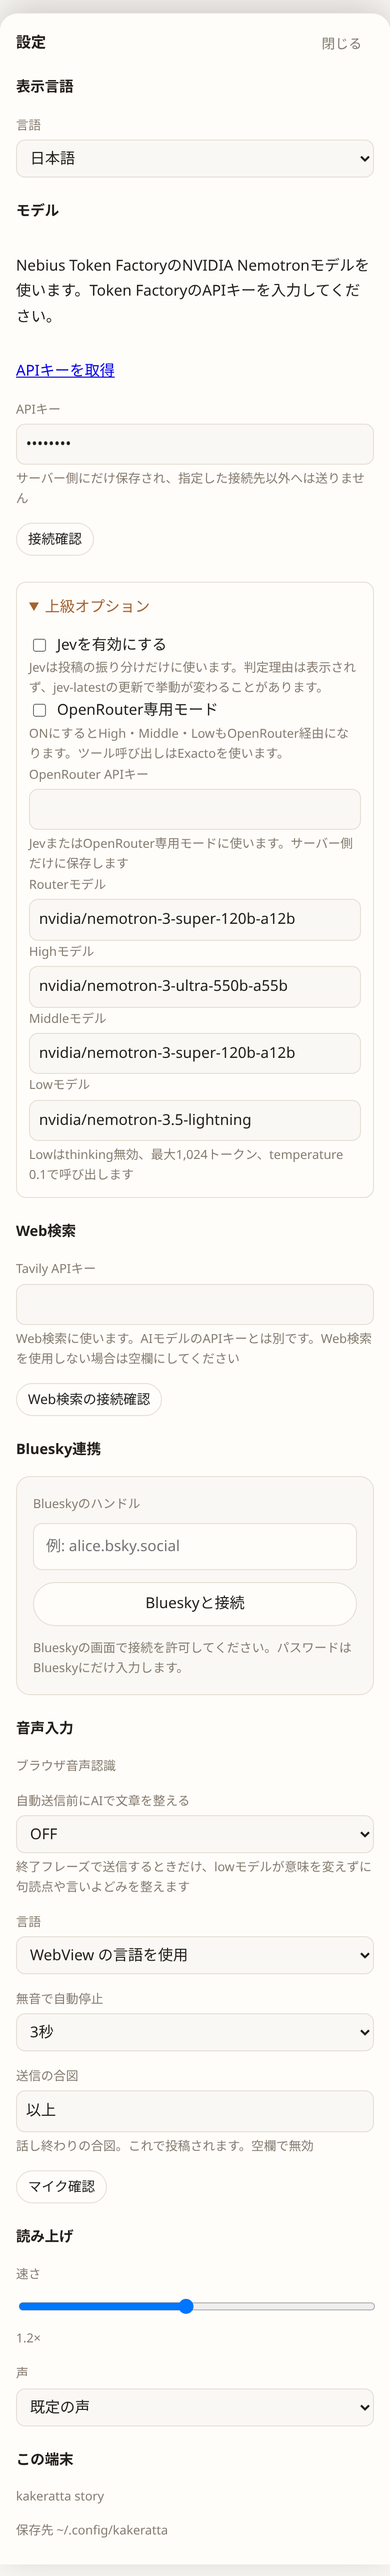
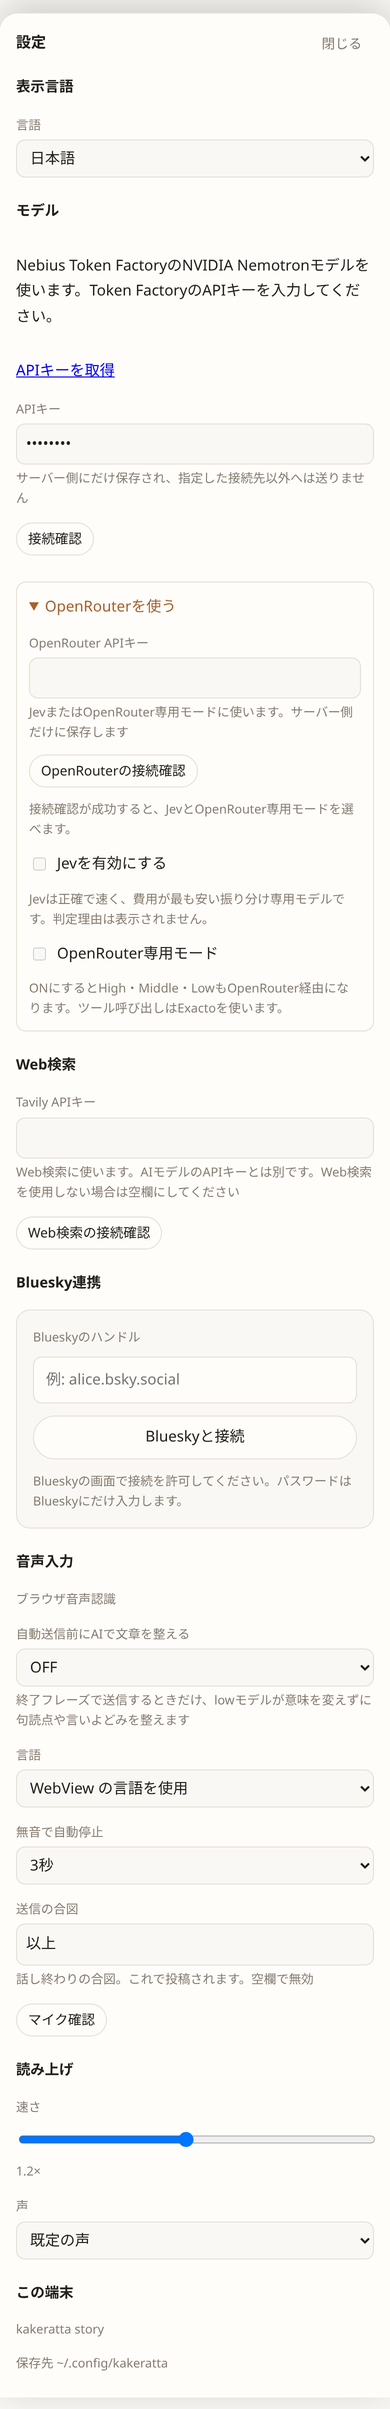
feat: add OpenRouter model pickers

diff --git a/frontend/src/settings.js b/frontend/src/settings.js
@@ -18,7 +18,8 @@ export function createSettings({ speaker, onSettings }) {
   const view = el("div", { class: "panel-body" });
   let settings = null;
   let about = null;
- let bluesky = null;
+  let bluesky = null;
+  let openRouterModels = [];
   let stopMicCheck = () => {};
 
   async function load() {
@@ -58,22 +59,23 @@ export function createSettings({ speaker, onSettings }) {
 
   // Models are not chosen here; the tiers keep their defaults (see the manual).
   // Listing the endpoint's models is still the check that the key works.
-  function connectionCheck(saveKey) {
+  function connectionCheck(saveKey, { fetchModels = () => api.models(), label = "接続確認", onModels } = {}) {
     const check = el("button", {
       class: "chip",
-      label: "接続確認",
+      label,
       onclick: async () => {
         check.disabled = true;
         check.textContent = t("接続中…");
         try {
           if (!(await saveKey())) return;
-          await api.models();
+          const result = await fetchModels();
+          onModels?.(result.models ?? []);
           toast(t("接続できました"));
         } catch (error) {
           toast(String(error.message || error), "error");
         } finally {
           check.disabled = false;
-          check.textContent = t("接続確認");
+          check.textContent = t(label);
         }
       },
     });
@@ -104,35 +106,53 @@ export function createSettings({ speaker, onSettings }) {
 	    type: "password",
 	    hint: "JevまたはOpenRouter専用モードに使います。サーバー側だけに保存します",
 	  });
-	const jevKeyInput = jevKey.querySelector("input");
 	const jevEnabled = el("input", { type: "checkbox", checked: !!settings.jevEnabled });
 	const openRouterMode = el("input", { type: "checkbox", checked: !!settings.openRouterMode });
-	const refreshKeyState = () => { jevKeyInput.disabled = !jevEnabled.checked && !openRouterMode.checked; };
-	refreshKeyState();
+	jevEnabled.disabled = true;
+	openRouterMode.disabled = true;
 	jevEnabled.addEventListener("change", () => {
-	  refreshKeyState();
 	  void patch({ jevEnabled: jevEnabled.checked });
 	});
 	openRouterMode.addEventListener("change", () => {
-	  refreshKeyState();
 	  void patch({ openRouterMode: openRouterMode.checked });
 	});
-	const openRouterModels = el("div", { class: "openrouter-models" },
-	  field("Routerモデル", settings.openRouterRouterModel, (value) => patch({ openRouterRouterModel: value })),
-	  field("Highモデル", settings.openRouterHighModel, (value) => patch({ openRouterHighModel: value })),
-	  field("Middleモデル", settings.openRouterMiddleModel, (value) => patch({ openRouterMiddleModel: value })),
-	  field("Lowモデル", settings.openRouterLowModel, (value) => patch({ openRouterLowModel: value }), {
-	    hint: "Lowはthinking無効、最大1,024トークン、temperature 0.1で呼び出します",
-	  }),
+	const modelChoices = (current) => [...new Set([current, ...openRouterModels].filter(Boolean))].map((id) => [id, id]);
+	const pickers = [
+	  select("Routerモデル", settings.openRouterRouterModel, modelChoices(settings.openRouterRouterModel), (value) => patch({ openRouterRouterModel: value })),
+	  select("Highモデル", settings.openRouterHighModel, modelChoices(settings.openRouterHighModel), (value) => patch({ openRouterHighModel: value })),
+	  select("Middleモデル", settings.openRouterMiddleModel, modelChoices(settings.openRouterMiddleModel), (value) => patch({ openRouterMiddleModel: value })),
+	  select("Lowモデル", settings.openRouterLowModel, modelChoices(settings.openRouterLowModel), (value) => patch({ openRouterLowModel: value })),
+	];
+	const refreshPickers = (models) => {
+	  openRouterModels = models;
+	  for (const picker of pickers) {
+	    const node = picker.querySelector("select");
+	    const current = node.value;
+	    node.replaceChildren(...modelChoices(current).map(([id, text]) => el("option", { value: id, text, selected: id === current })));
+	  }
+	};
+	const pickerGroup = el("div", { class: "openrouter-models" }, ...pickers,
+	  el("p", { class: "hint", label: "Lowはthinking無効、最大1,024トークン、temperature 0.1で呼び出します" }));
+	pickerGroup.hidden = !openRouterMode.checked;
+	openRouterMode.addEventListener("change", () => { pickerGroup.hidden = !openRouterMode.checked; });
+	const openRouterCheck = connectionCheck(
+	  () => patch({ openRouterApiKey: jevKey.querySelector("input").value.trim() }),
+	  { fetchModels: () => api.openRouterModels(), label: "OpenRouterの接続確認", onModels: (models) => {
+	    refreshPickers(models);
+	    jevEnabled.disabled = false;
+	    openRouterMode.disabled = false;
+	  } },
 	);
 	view.append(el("details", { class: "advanced-settings" },
-	  el("summary", { label: "上級オプション" }),
+	  el("summary", { label: "OpenRouterを使う" }),
+	  jevKey,
+	  openRouterCheck,
+	  el("p", { class: "hint", label: "接続確認が成功すると、JevとOpenRouter専用モードを選べます。" }),
 	  el("label", { class: "field check-field" }, jevEnabled, el("span", { label: "Jevを有効にする" })),
-	  el("p", { class: "hint", label: "Jevは投稿の振り分けだけに使います。判定理由は表示されず、jev-latestの更新で挙動が変わることがあります。" }),
+	  el("p", { class: "hint", label: "Jevは正確で速く、費用が最も安い振り分け専用モデルです。判定理由は表示されません。" }),
 	  el("label", { class: "field check-field" }, openRouterMode, el("span", { label: "OpenRouter専用モード" })),
 	  el("p", { class: "hint", label: "ONにするとHigh・Middle・LowもOpenRouter経由になります。ツール呼び出しはExactoを使います。" }),
-	  jevKey,
-	  openRouterModels,
+	  pickerGroup,
 	));
   }
 

diff --git a/frontend/manual/index.html b/frontend/manual/index.html
@@ -329,7 +329,7 @@
         <section id="ja-settings">
           <h2>9. 設定</h2>
           <figure>
-            <img src="/captures/ja/settings.png" alt="設定。表示言語、モデル、Web検索、Bluesky連携、音声入力、読み上げ" loading="lazy" width="390" height="2575" />
+            <img src="/captures/ja/settings.png" alt="設定。表示言語、モデル、Web検索、Bluesky連携、音声入力、読み上げ" loading="lazy" width="390" height="2409" />
             <figcaption>設定パネル。上から表示言語、AI、Web検索、Bluesky連携、音声入力、読み上げ。</figcaption>
           </figure>
           <h3>表示言語</h3>
@@ -355,7 +355,7 @@
               </tbody>
             </table>
           </div>
-          <p>上級オプションでは、振り分けだけをJevへ切り替えるか、OpenRouter専用モードでhigh/middle/lowも指定モデルへ切り替えられます。Jevでは判定理由を表示しません。</p>
+          <p><strong>OpenRouterを使う</strong>では、APIキーを入力して接続確認すると利用可能なモデルを取得し、router/high/middle/lowごとに選べます。振り分けだけをJevへ切り替えることも、OpenRouter専用モードでhigh/middle/lowを選択モデルへ切り替えることもできます。Jevは本番20件の比較で条件差分5/5、平均0.37秒、1件約0.026円でしたが、判定理由は表示しません。</p>
           <p>担当ごとに low / middle / high を選びます。low が先に動き、その発言を見て上の段が突っ込めます。どのモデルをどの段に置くかが、そのまま体験の差になります。</p>
           <p><strong>web 検索以外の道具（経路、店探し、予定など）を使う担当は middle か high です。</strong>middle 以上の担当は、まず読んだり調べたりしてから、やること（メモ・予定・発言）を workflow として出し、本体が確認してから実行します。low の担当は workflow を使わず、メモと web 検索と発言だけで軽く動きます。</p>
           <h3 id="ja-tools">道具：担当が調べたり覚えたりする方法</h3>
@@ -734,7 +734,7 @@
         <section id="en-settings">
           <h2>9. Settings</h2>
           <figure>
-            <img src="/captures/en/settings.png" alt="Settings: display language, model, web search, Bluesky connection, voice input, read-aloud" loading="lazy" width="390" height="2615" />
+            <img src="/captures/en/settings.png" alt="Settings: display language, model, web search, Bluesky connection, voice input, read-aloud" loading="lazy" width="390" height="2429" />
             <figcaption>The Settings panel: display language, AI, web search, Bluesky connection, voice input, read-aloud.</figcaption>
           </figure>
           <h3>Display language</h3>
@@ -760,7 +760,7 @@
               </tbody>
             </table>
           </div>
-          <p>Advanced options can move routing alone to Jev, or move high/middle/low to selected OpenRouter models with OpenRouter-only mode. Jev does not display decision reasons.</p>
+          <p><strong>Use OpenRouter</strong> saves an API key, checks the connection, fetches available models, and lets you pick each router/high/middle/low slot. You can move routing alone to Jev or move high/middle/low to the selected models with OpenRouter-only mode. In the 20-production-item comparison, Jev scored 5/5 on disputed cases, averaged 0.37 seconds, and cost about ¥0.026 per route, but it does not display decision reasons.</p>
           <p>Each persona chooses low, middle, or high. Low runs first, and higher tiers can build on earlier responses. Which model sits in which tier is the difference in experience.</p>
           <p><strong>A persona that uses any tool other than web search (routes, places, schedules) is middle or high.</strong> Those personas first read and look things up, then hand in what they will do (notes, schedules, a remark) as a workflow that the app reviews before running it. A low persona has no workflow: it works with its notes, web search and a remark only.</p>
           <h3 id="en-tools">Tools: how personas look things up and remember</h3>

diff --git a/frontend/src/i18n.js b/frontend/src/i18n.js
@@ -2,12 +2,16 @@ const STORAGE_KEY = "kakeratta.language";
 
 const EN = {
  "上級オプション": "Advanced options",
+ "OpenRouterを使う": "Use OpenRouter",
+ "OpenRouterの接続確認": "Check OpenRouter connection",
+ "接続確認が成功すると、JevとOpenRouter専用モードを選べます。": "After the connection check succeeds, you can select Jev or OpenRouter-only mode.",
  "Jevを有効にする": "Enable Jev",
  "OpenRouter APIキー": "OpenRouter API key",
  "OpenRouter専用モード": "OpenRouter-only mode",
  "Routerモデル": "Router model", "Highモデル": "High model", "Middleモデル": "Middle model", "Lowモデル": "Low model",
  "JevまたはOpenRouter専用モードに使います。サーバー側だけに保存します": "Used for Jev or OpenRouter-only mode. Stored only on the server.",
  "Jevは投稿の振り分けだけに使います。判定理由は表示されず、jev-latestの更新で挙動が変わることがあります。": "Jev is used only for post routing. It does not show decision reasons, and jev-latest updates may change behavior.",
+ "Jevは正確で速く、費用が最も安い振り分け専用モデルです。判定理由は表示されません。": "Jev is an accurate and fast routing model with the lowest cost. It does not show decision reasons.",
  "ONにするとHigh・Middle・LowもOpenRouter経由になります。ツール呼び出しはExactoを使います。": "When on, High, Middle, and Low also use OpenRouter. Tool calls use Exacto.",
  "Lowはthinking無効、最大1,024トークン、temperature 0.1で呼び出します": "Low is called with thinking disabled, up to 1,024 tokens, and temperature 0.1.",
  "Jevの振り分けだけに使います。空欄またはOFFならNemotron Superを使います": "Used only for Jev routing. If empty or off, Nemotron Super is used.",

diff --git a/frontend/src/styles.css b/frontend/src/styles.css
@@ -279,6 +279,13 @@ body.sheet-open .topbar { z-index: 21; }
 .advanced-settings { margin-top: 12px; padding: 12px; border: 1px solid var(--line); border-radius: 10px; }
 .advanced-settings summary { cursor: pointer; color: var(--accent); }
 .advanced-settings[open] summary { margin-bottom: 12px; }
+.advanced-settings > .field,
+.advanced-settings > .compose-row,
+.advanced-settings > .hint,
+.advanced-settings > .openrouter-models { margin-top: 12px; }
+.openrouter-models { display: grid; gap: 12px; }
+.openrouter-models[hidden] { display: none; }
+.openrouter-models > .hint { margin: 0; }
 .field.check-field { display: flex; flex-direction: row; align-items: center; gap: 8px; }
 .field.check-field input { width: auto; }
 .field.check-field > span:first-child { color: inherit; font-size: inherit; }

diff --git a/frontend/stories/api.js b/frontend/stories/api.js
@@ -88,6 +88,7 @@ export function serve({ personas = [], tools = [], settings = {}, about = null, 
     }
     if (path === "/api/about") return about ? json(about) : json({ error: "about" }, 404);
     if (path === "/api/models") return json({ models });
+    if (path === "/api/openrouter/models") return json({ models });
     return json({ error: `the story has no ${method} ${path}` }, 404);
   };
 }

diff --git a/frontend/src/api.js b/frontend/src/api.js
@@ -125,6 +125,7 @@ export const api = {
   settings: () => call("GET", "/api/settings"),
   saveSettings: (settings) => call("PUT", "/api/settings", settings),
   models: () => call("GET", "/api/models"),
+  openRouterModels: () => call("GET", "/api/openrouter/models"),
   about: () => call("GET", "/api/about"),
 
   on(listener) {

diff --git a/internal/server/routes.go b/internal/server/routes.go
@@ -15,6 +15,7 @@ import (
 	"time"
 
 	"github.com/takeshy/kakeratta/internal/capture"
+	"github.com/takeshy/kakeratta/internal/llm"
 	"github.com/takeshy/kakeratta/internal/persona"
 	"github.com/takeshy/kakeratta/internal/store"
 	"github.com/takeshy/kakeratta/internal/timeline"
@@ -87,6 +88,7 @@ func (s *Server) routes() {
 	s.mux.HandleFunc("PUT /api/settings", s.guard(s.putSettings))
 	s.mux.HandleFunc("POST /api/search/check", s.guard(s.checkSearch))
 	s.mux.HandleFunc("GET /api/models", s.guard(s.getModels))
+	s.mux.HandleFunc("GET /api/openrouter/models", s.guard(s.getOpenRouterModels))
 	s.mux.HandleFunc("GET /api/about", s.guard(s.getAbout))
 
 	// The dictation stack is reached through the relay so credentials stay out
@@ -633,6 +635,40 @@ func (s *Server) getModels(w http.ResponseWriter, r *http.Request) {
 	client, _ := s.client()
 	ctx, cancel := context.WithTimeout(r.Context(), 20*time.Second)
 	defer cancel()
+	models, err := client.Models(ctx)
+	if err != nil {
+		fail(w, http.StatusBadGateway, err.Error())
+		return
+	}
+	writeJSON(w, http.StatusOK, map[string]any{"models": models})
+}
+
+func (s *Server) getOpenRouterModels(w http.ResponseWriter, r *http.Request) {
+	settings := s.store.Settings()
+	if strings.TrimSpace(settings.OpenRouterAPIKey) == "" {
+		fail(w, http.StatusBadRequest, "OpenRouter APIキーを入力してください")
+		return
+	}
+	client := llm.NewOpenRouter(store.OpenRouterBaseURL, settings.OpenRouterAPIKey)
+	ctx, cancel := context.WithTimeout(r.Context(), 20*time.Second)
+	defer cancel()
+	check, err := http.NewRequestWithContext(ctx, http.MethodGet, store.OpenRouterBaseURL+"/key", nil)
+	if err != nil {
+		fail(w, http.StatusBadGateway, err.Error())
+		return
+	}
+	check.Header.Set("Authorization", "Bearer "+settings.OpenRouterAPIKey)
+	response, err := client.HTTP.Do(check)
+	if err != nil {
+		fail(w, http.StatusBadGateway, err.Error())
+		return
+	}
+	_, _ = io.Copy(io.Discard, io.LimitReader(response.Body, 1<<20))
+	_ = response.Body.Close()
+	if response.StatusCode >= 300 {
+		fail(w, http.StatusBadGateway, "OpenRouter APIキーを確認できませんでした")
+		return
+	}
 	models, err := client.Models(ctx)
 	if err != nil {
 		fail(w, http.StatusBadGateway, err.Error())

diff --git a/docs/usage_ja.md b/docs/usage_ja.md
@@ -190,7 +190,7 @@ KakerattaはNebius Token Factoryを通じてNVIDIA Nemotronモデルを使用し
 
 画像の読み取りにはGLM-5.3-Flash、意味検索にはQwen3-Embedding-8Bを同じ基盤で使用します。
 
-振り分けは既定でNemotron Superを使います。設定の「上級オプション」でJevを有効にし、OpenRouter APIキーを入力すると、振り分けだけをJevへ切り替えます（Jevでは判定理由を表示しません）。OpenRouter専用モードをONにすると、high/middle/lowも画面で指定したOpenRouterモデルを使います。
+振り分けは既定でNemotron Superを使います。設定の「OpenRouterを使う」でAPIキーを入力し、接続確認すると利用可能なモデルを取得してrouter/high/middle/lowごとに選べます。Jevを有効にすると振り分けだけをJevへ切り替えます。Jevは本番20件の比較で条件差分5/5、平均0.37秒、1件約0.026円でしたが、判定理由は表示しません。OpenRouter専用モードをONにすると、high/middle/lowも選択したOpenRouterモデルを使います。
 
 ![設定。表示言語、モデル、Web検索、Bluesky連携、音声入力、読み上げ](captures/ja/settings.png)
 

diff --git a/docs/usage.md b/docs/usage.md
@@ -239,10 +239,12 @@ Kakeratta uses NVIDIA Nemotron models through Nebius Token Factory.
 - Nemotron Ultra — high-tier personas and persona drafting
 - Nebius Token Factory — inference backend
 
-Routing uses Nemotron Super by default. Under Advanced options, enabling Jev
-and entering an OpenRouter API key moves only routing to Jev; Jev does not show
-decision reasons. OpenRouter-only mode also moves high, middle, and low to the
-OpenRouter models entered in Advanced options.
+Routing uses Nemotron Super by default. Under Use OpenRouter, enter an API key
+and check the connection to fetch available models and pick one for each slot.
+Enabling Jev moves only routing to Jev. In the 20-production-item comparison,
+Jev scored 5/5 on disputed cases, averaged 0.37 seconds, and cost about ¥0.026
+per route, but it does not show decision reasons. OpenRouter-only mode also
+moves high, middle, and low to their selected OpenRouter models.
 
 Image reading uses GLM-5.3-Flash and meaning search uses
 Qwen3-Embedding-8B on the same backend.
